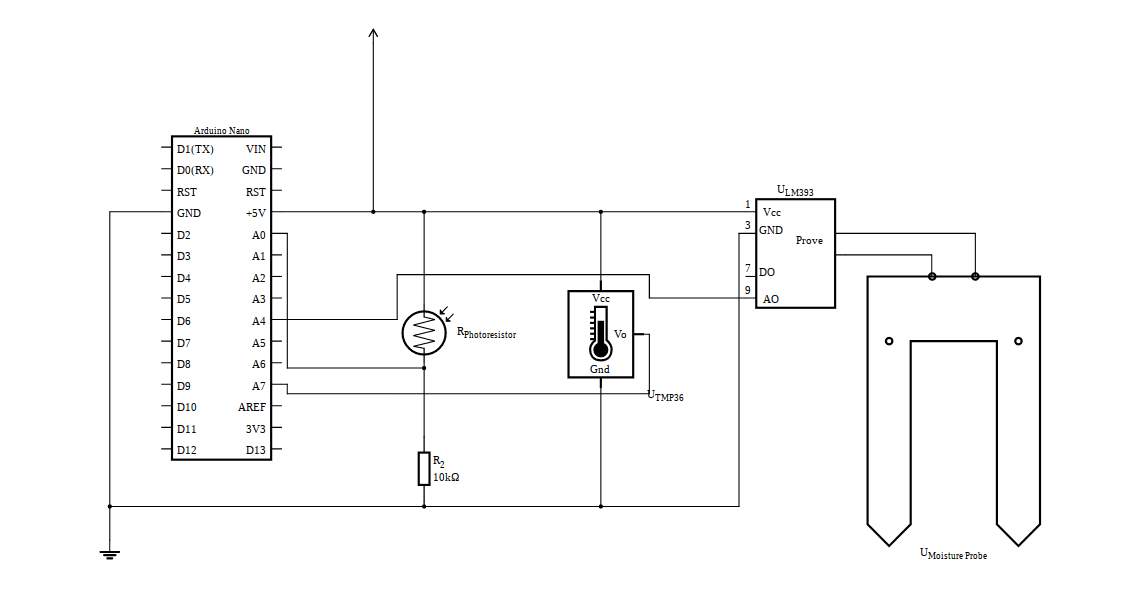
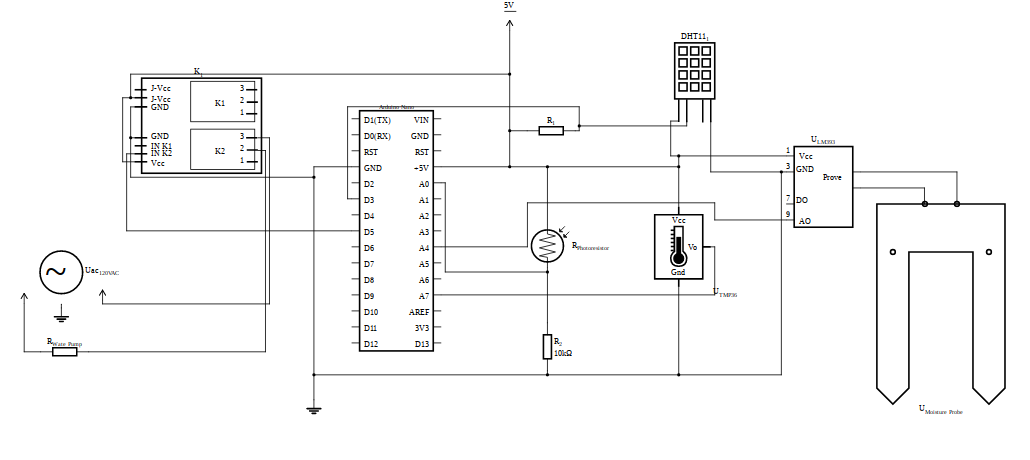
DHT11 support, temperature graph now has 2 plots and legend, Humidity sensor working

diff --git a/PythonSerial.py b/PythonSerial.py
@@ -18,6 +18,8 @@ import matplotlib
 matplotlib.use('Agg')
 
 import matplotlib.pyplot as plt
+
+# make graphs more like matlab
 plt.style.use('ggplot') # thanks Juris!
 
 import matplotlib.dates as mdates
@@ -30,7 +32,7 @@ import numpy as np
 # fix so USB0 or USB1 can be used so as to not fail
 # open arduino serial object
 try:
-    arduino = serial.Serial("/dev/ttyUSB0",timeout=1,baudrate=9600)
+    arduino = serial.Serial("/dev/ttyUSB0",timeout=5,baudrate=9600)
 except:
     print('Please check the port')
 
@@ -40,15 +42,15 @@ dt = datetime.now() # get current time
 
 """Receiving data """
 # 2 floats should be 8 chars, if less then serial receive failed
-while len(rawdata.strip())<8:
+while ( len(rawdata.strip()) < 6):
     rawdata = str(arduino.readline()) # read input from arduino
-print rawdata
+    print rawdata.strip()
 
 """ writing data to file """
 def write(L):
     print "writing to file...\n"
 	
-    light,temp,soil = rawdata.split(";") # splits rawdata into proper data values 
+    light,temp,soil,humidity,tempD = rawdata.split(";") # splits rawdata into proper data values 
 
     file=open("/home/kevin/LightSensor/light.txt",mode='aw')
     file.write(dt.strftime("%Y%m%d%H%M%S") +"  " + light + "\n")
@@ -59,7 +61,15 @@ def write(L):
     file.close()
 
     file=open("/home/kevin/LightSensor/soil.txt",mode='aw')
-    file.write(dt.strftime("%Y%m%d%H%M%S") +"  " + soil) # automatically adds \n
+    file.write(dt.strftime("%Y%m%d%H%M%S") +"  " + soil+ "\n") 
+    file.close()
+
+    file=open("/home/kevin/LightSensor/humidity.txt",mode='aw')
+    file.write(dt.strftime("%Y%m%d%H%M%S") +"  " + humidity+ "\n")
+    file.close()
+
+    file=open("/home/kevin/LightSensor/tempD.txt",mode='aw')
+    file.write(dt.strftime("%Y%m%d%H%M%S") +"  " + tempD) # automatically adds \n
     file.close()
 
 write(rawdata) # see above
@@ -74,7 +84,7 @@ fig, ax = plt.subplots()
 ax.xaxis_date()
 ax.xaxis.set_major_formatter(mdates.DateFormatter('%Y-%m-%d %H:%M:%S'))
 plt.gcf().autofmt_xdate()
-plt.plot_date(x=dates1, y=lightData, fmt="r-")
+plt.plot_date(x=dates1, y=lightData, fmt="y-")
 plt.title("Light Intensity")
 plt.ylabel("Light %")
 plt.savefig('/home/kevin/LightSensor/light.png')
@@ -83,29 +93,49 @@ plt.close()
 print "plotting Temperature graph"
 dates2,tempData = np.genfromtxt("/home/kevin/LightSensor/temp.txt", unpack=True,
         converters={ 0: mdates.strpdate2num('%Y%m%d%H%M%S')})
+dates3,tempDigitalData = np.genfromtxt("/home/kevin/LightSensor/tempD.txt", unpack=True,
+        converters={ 0: mdates.strpdate2num('%Y%m%d%H%M%S')})
 
 fig, ax = plt.subplots()
+line1, = plt.plot_date(x=dates2, y=tempData, label="Analog Sensor", fmt="r-")
+line2, = plt.plot_date(x=dates2, y=tempDigitalData, label="Digital Sensor", fmt="m-")
 ax.xaxis_date()
 ax.xaxis.set_major_formatter(mdates.DateFormatter('%Y-%m-%d %H:%M:%S'))
 plt.gcf().autofmt_xdate()
-plt.plot_date(x=dates2, y=tempData, fmt="r-")
+
+plt.legend([line1, line2], ["Analog Sensor", "Digital Sensor"], loc=2)
+
 plt.title("Temperature")
 plt.ylabel("Degrees Celsius")
 plt.savefig('/home/kevin/LightSensor/temp.png')
 plt.close()
 
 print "plotting Moisture graph"
-dates2,soilData = np.genfromtxt("/home/kevin/LightSensor/soil.txt", unpack=True,
+dates4,soilData = np.genfromtxt("/home/kevin/LightSensor/soil.txt", unpack=True,
         converters={ 0: mdates.strpdate2num('%Y%m%d%H%M%S')})
 
 fig, ax = plt.subplots()
 ax.xaxis_date()
 ax.xaxis.set_major_formatter(mdates.DateFormatter('%Y-%m-%d %H:%M:%S'))
 plt.gcf().autofmt_xdate()
-plt.plot_date(x=dates2, y=soilData, fmt="r-")
+plt.plot_date(x=dates4, y=soilData, fmt="b-")
 plt.title("Substrate Aridity (Moisture)")
 plt.ylabel("Completely Submerged = 200   /   Bone Dry = 1000")
 plt.savefig('/home/kevin/LightSensor/soil.png')
+plt.close()
+
+print "plotting Humidity graph"
+dates5,soilData = np.genfromtxt("/home/kevin/LightSensor/humidity.txt", unpack=True,
+        converters={ 0: mdates.strpdate2num('%Y%m%d%H%M%S')})
+
+fig, ax = plt.subplots()
+ax.xaxis_date()
+ax.xaxis.set_major_formatter(mdates.DateFormatter('%Y-%m-%d %H:%M:%S'))
+plt.gcf().autofmt_xdate()
+plt.plot_date(x=dates5, y=soilData, fmt="c-")
+plt.title("Relative Humidity")
+plt.ylabel("Humidity %")
+plt.savefig('/home/kevin/LightSensor/humidity.png')
 plt.close()
 
 

diff --git a/src/main.cpp b/src/main.cpp
@@ -1,0 +1,74 @@
+/*
+ * Kevin Henderson 2018
+ * 
+
+Garden setup
+
+*/
+
+#include <Arduino.h>
+#include <Wire.h>
+#include <DHT.h>
+
+#define DHTPIN 5     // what digital pin we're connected to
+#define DHTTYPE DHT11   // DHT 11
+
+int photoPin = A0;    // photresistor
+int tempPin = A7;     //  TMP36 sensor
+int soilApin = A4;    // LM393 analog moisture sensor
+
+
+float tempValue = 0;
+float temperature = 0;
+float lightValue = 0;  // variable to store the value coming from the sensor
+float lightPercent = 0;
+
+float humidity = 0;
+float temperatureDigital = 0;
+int soilAnalog = 0;
+
+DHT dht(5,DHT11);
+
+void setup() {
+   
+  pinMode(photoPin, INPUT);
+  pinMode(tempPin, INPUT);
+  pinMode(soilApin, INPUT);
+  pinMode(5, INPUT);
+
+  
+  Serial.begin(9600); // trying higher baud
+}
+
+void loop() {
+  
+  lightValue = analogRead(photoPin);
+  lightPercent = (lightValue / 1023) * 100;
+  
+  tempValue = analogRead(tempPin);
+
+  soilAnalog = analogRead(soilApin);
+
+  humidity = dht.readHumidity();
+  temperatureDigital = dht.readTemperature();
+
+  // Check if any reads failed and exit early (to try again).
+  if (isnan(humidity) || isnan(temperatureDigital)) {
+    Serial.println("Failed to read from DHT sensor");
+  return;
+  }
+  
+
+   //Voltage at pin in milliVolts = (reading from ADC) * (5000/1024)
+  float tempVoltage = tempValue * 0.004882814;
+  //Centigrade temperature = [(analog voltage in mV) - 500] / 10
+  temperature = (tempVoltage - 0.5) * 100.0;
+
+  Serial.println((String)lightPercent+';'+(String)temperature
+            +';'+(String)soilAnalog+';'+(String)humidity				    +';'+(String)temperatureDigital);
+
+
+  Serial.flush();
+
+  delay(3000);
+}

diff --git a/README.md b/README.md
@@ -3,7 +3,7 @@
 
 # Kevin's Garden Automation and Datalogging
 
-Analog sensors hooked up to Arduino/Atmega328P, processeing data and sending via serial connection over USB to a Raspberry Pi.
+Analog/Digital sensors hooked up to Arduino/Atmega328P, processeing data and sending via serial connection over USB to a Raspberry Pi.
 
 The Pi logs the data and creates a new graph with python and the matplotlib library.
 A cron job can be set to automate this on a regular interval while also running a script to capture a current photo.
@@ -24,7 +24,7 @@ TODO:
 - Arduino Uno or Nano
 - TMP36 temperature sensor
 - Photoresistor
-- LM393 driven analog moisture sensor
+- Analog moisture sensor
 - (optional) https://platformio.org/ allows for headless updating of the arduino over ssh
 
 ## Running
@@ -37,9 +37,7 @@ PythonSerial.py can be run standalone but my shoddy serial connection makes usin
 
 Confirmed working on:
 
-- Python 2.7.9
-
-- Matplotlib 1.4.2
+Raspberry Pi 1-B - Arduino Nano w/ Atmega328 - Python 2.7.9 - Matplotlib 1.4.2
 
 ## License
 
